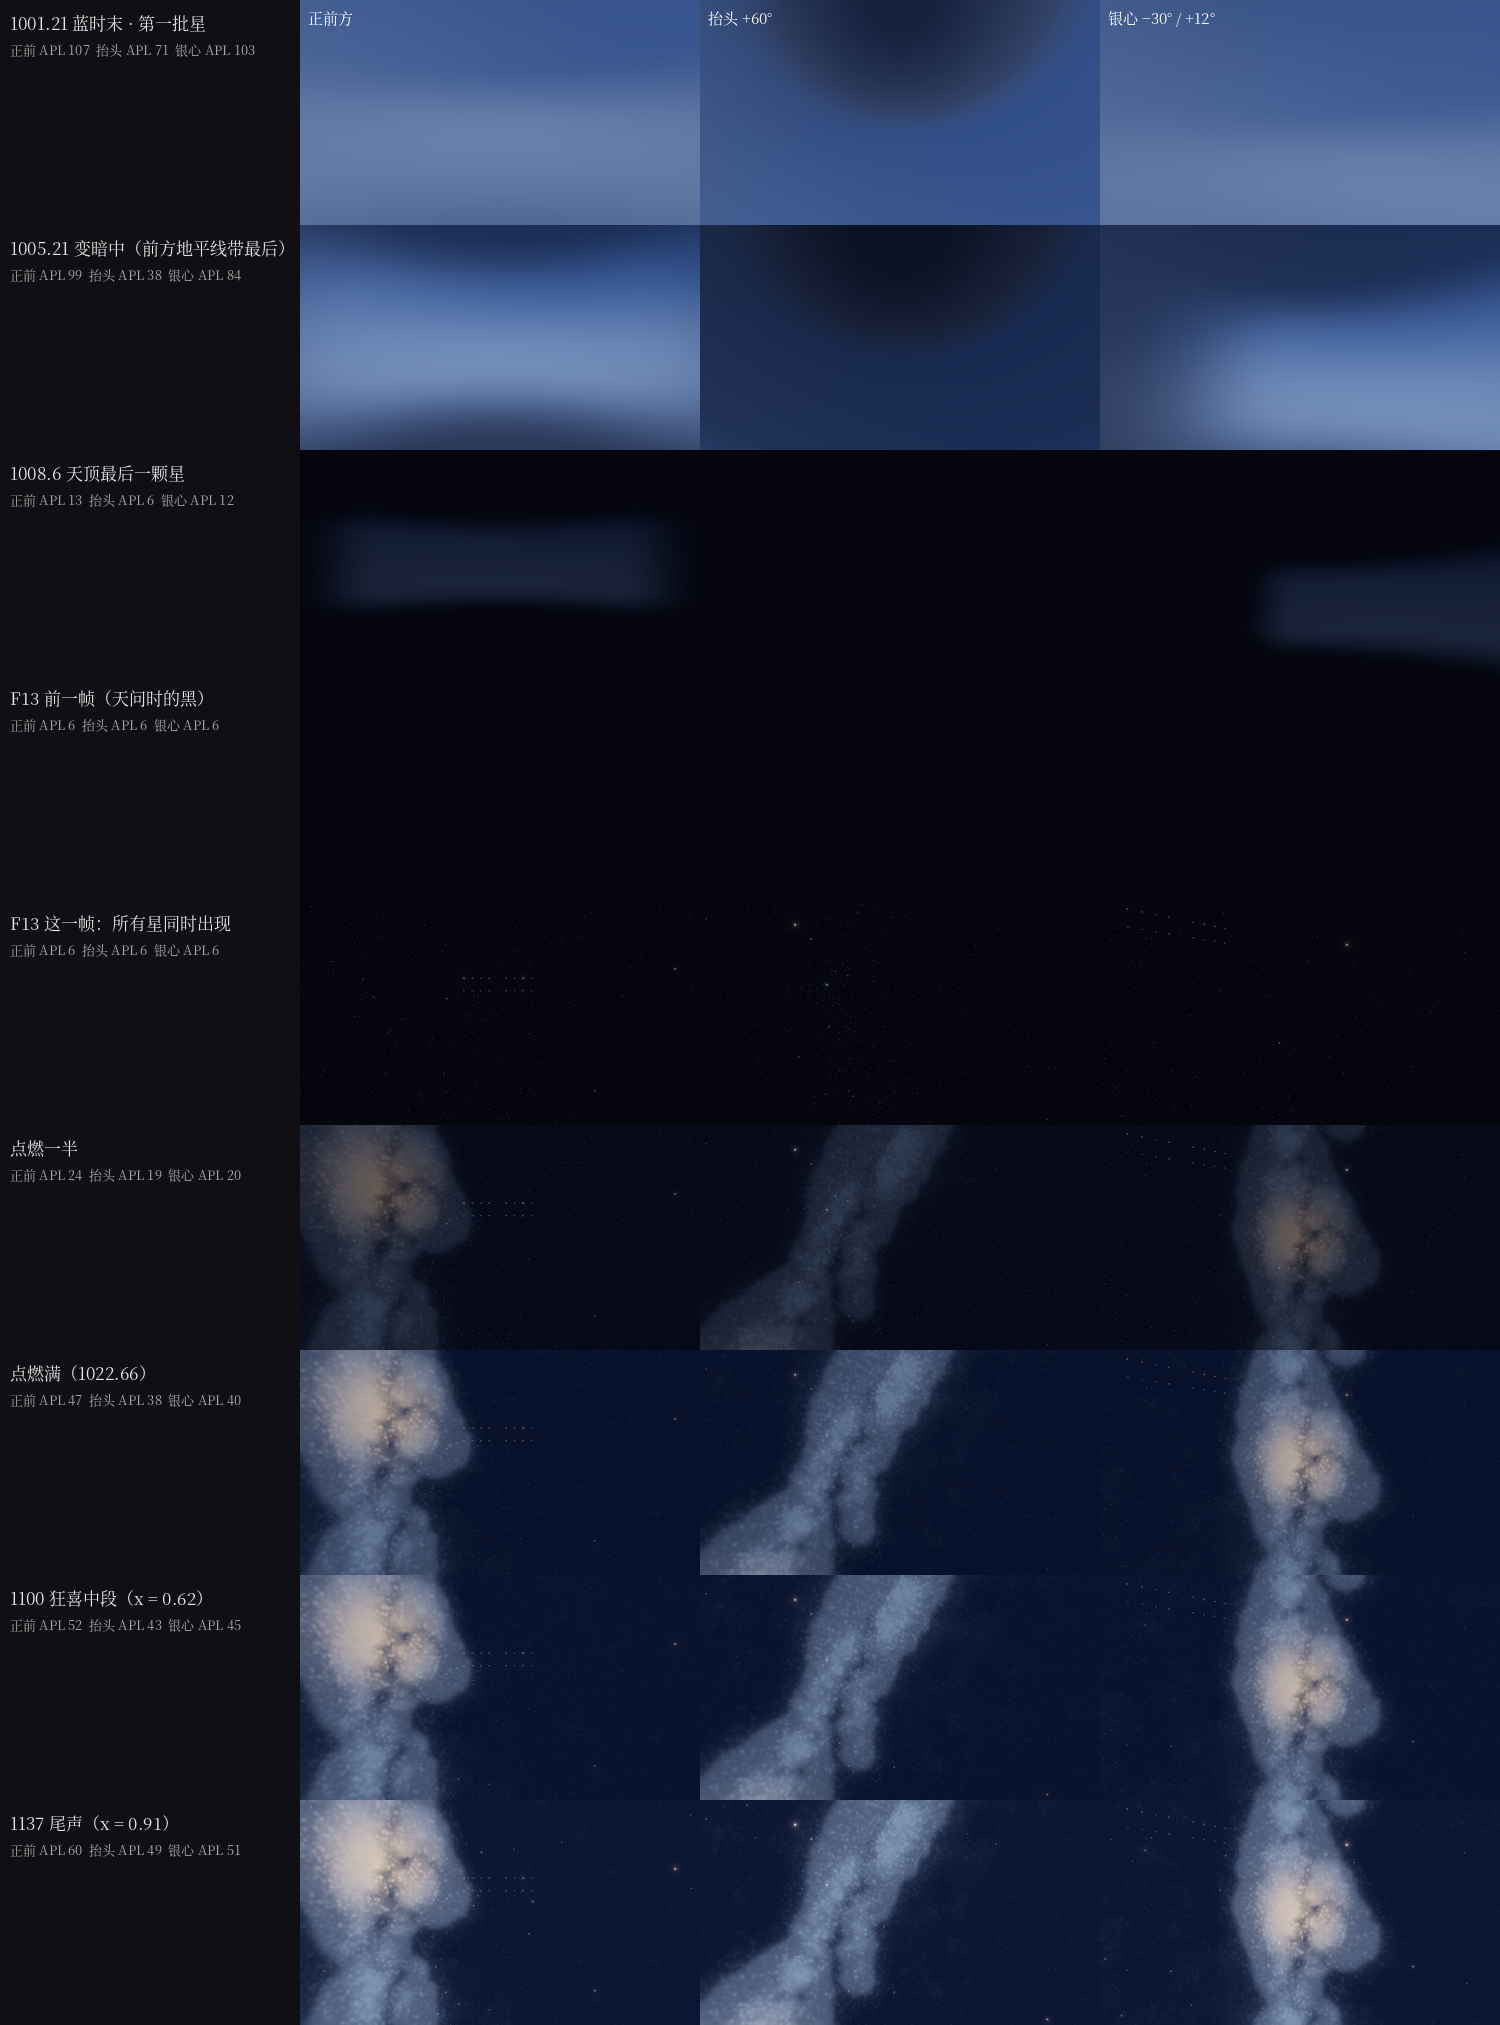
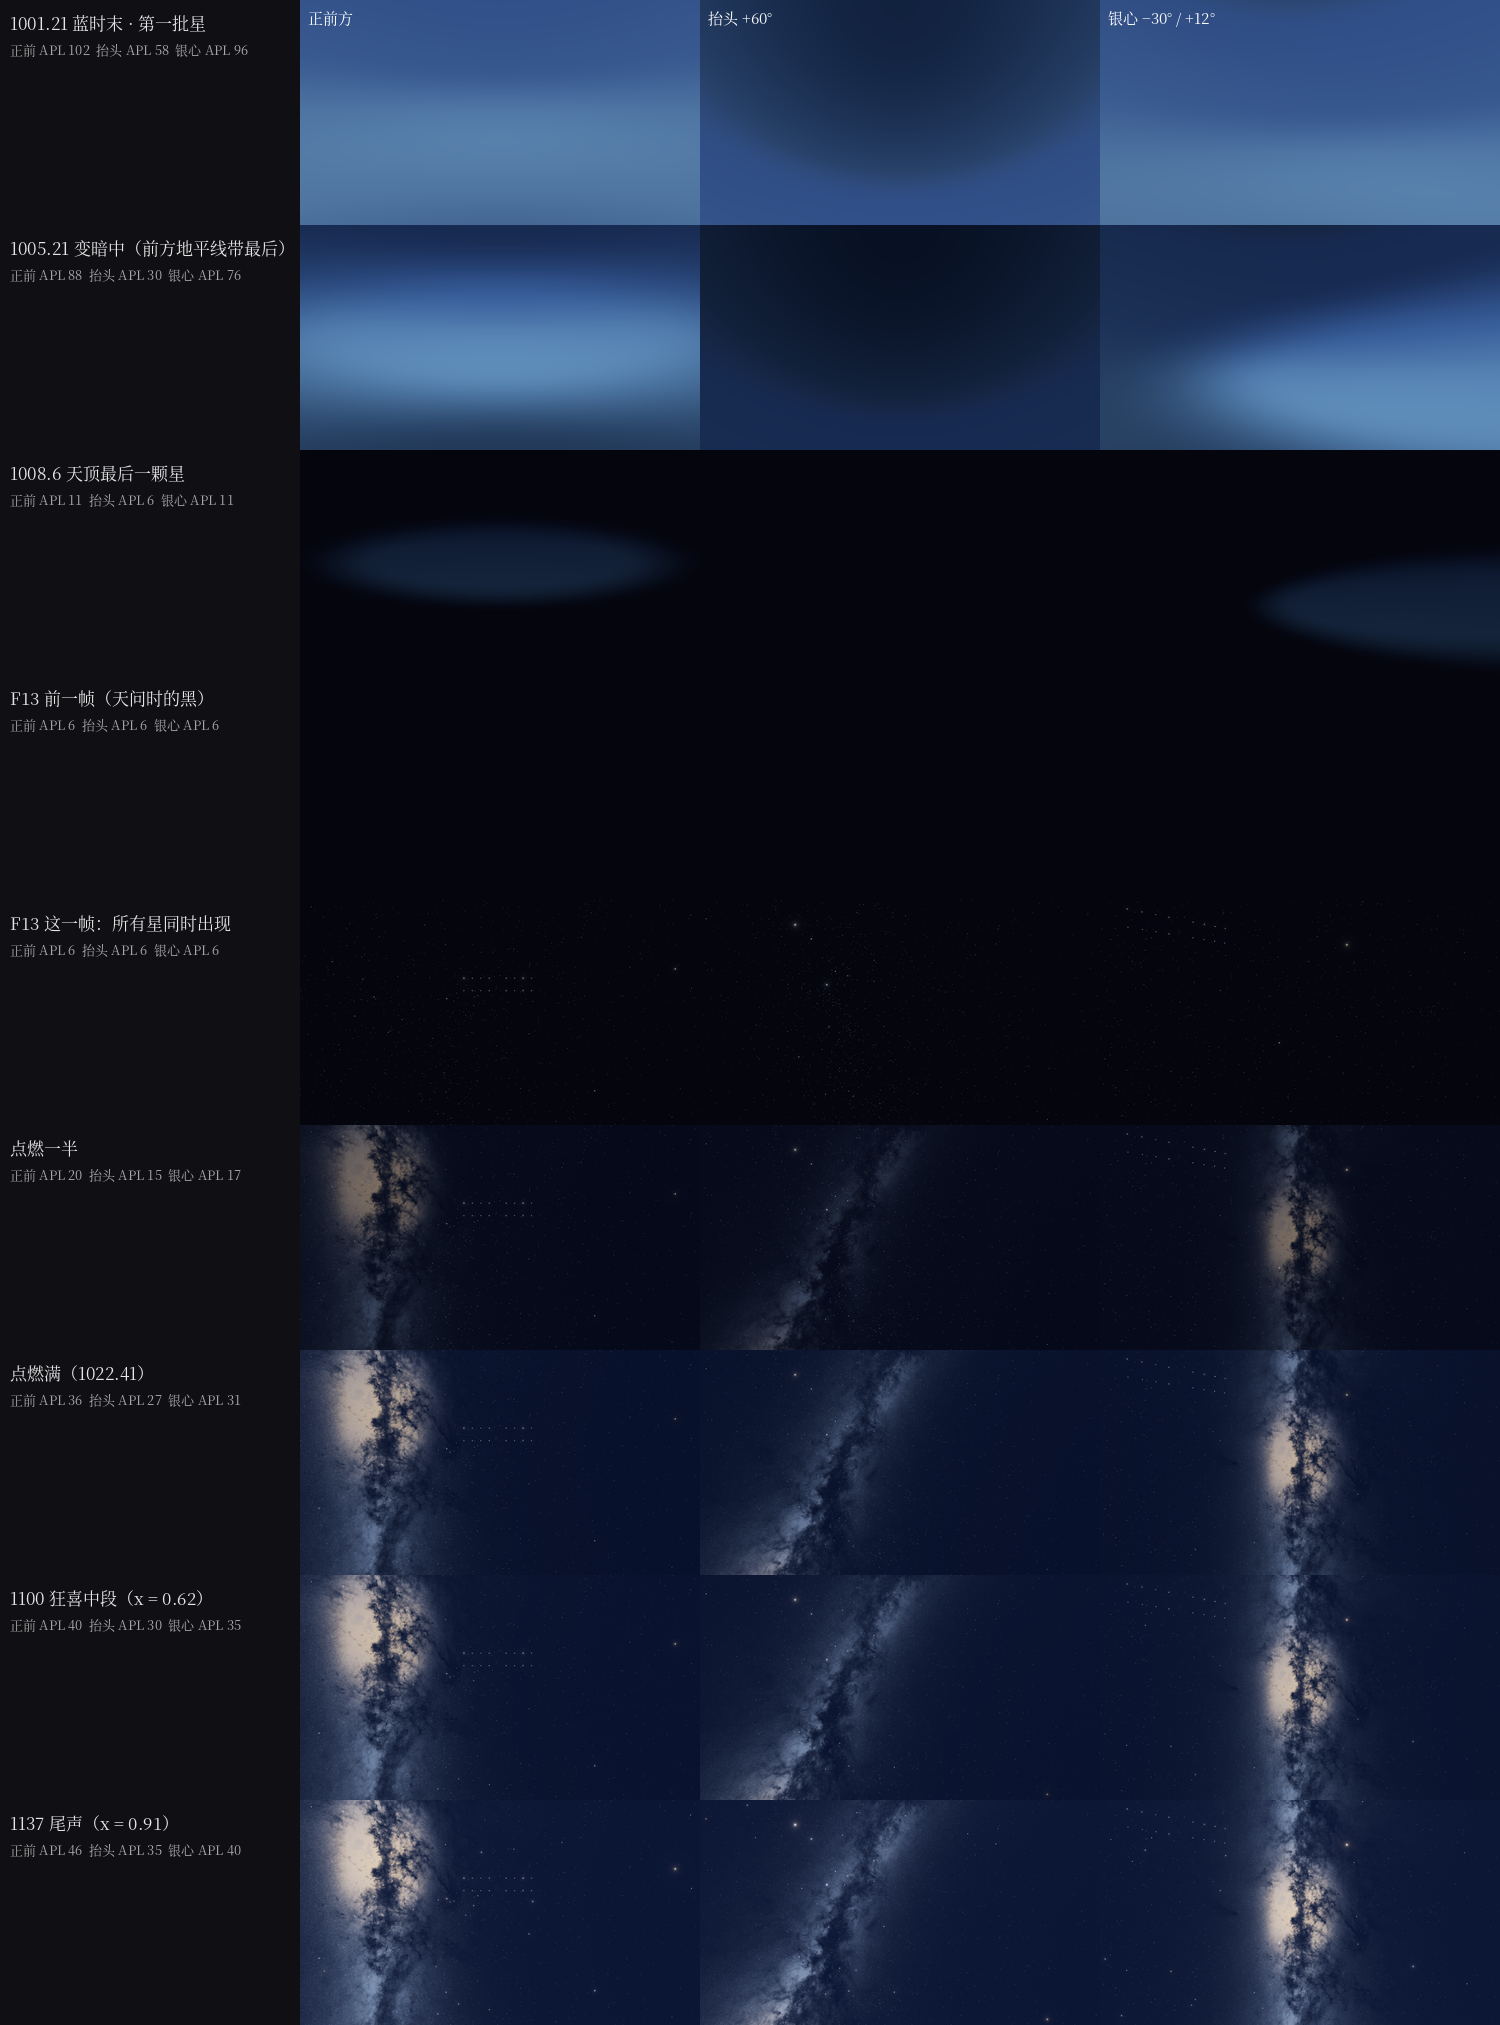
Act 9 v1.1: recalibrated on the Gaia galaxy (ignition 4.2 s + hold 10 s as the bible), reference frames re-rendered, README
Claude-Session: https://claude.ai/code/session_01Nf2iZx1zWD6Xt6BAtCCBfu

diff --git a/Act09_StarSea/README_Act09.md b/Act09_StarSea/README_Act09.md
@@ -1,6 +1,6 @@
-# 蓝白 · 第 9 幕 · 星海（天的部分）v1 —— 遂古之初，谁传道之？上下未形，何由考之？
+# 蓝白 · 第 9 幕 · 星海（天的部分）v1.1 —— 遂古之初，谁传道之？上下未形，何由考之？
 
-写的人：云端子会话「天空」，2026-10-23。**没在 Unity 里编译过**（shader 只用 slang 查过、C# 只用 Roslyn 查过类型）。参考帧是在 CPU 上直接跑 `Lanbai/Sky` 的 shader 代码、按 `Lanbai/StarPoints` 的公式贴星、再按调色套件的引擎（S8b / S9a / S9b + bloom）调色的。
+写的人：云端子会话「天空」，2026-10-23（v1.1：按 Sky v1.2 的 Gaia 银河重标定）。**没在 Unity 里编译过**（shader 只用 slang 查过、C# 只用 Roslyn 查过类型）。参考帧是在 CPU 上直接跑 `Lanbai/Sky` 的 shader 代码、按 `Lanbai/StarPoints` 的公式贴星、再按调色套件的引擎（S8b / S9a / S9b + bloom）调色的。
 **这一版是“天”：** 蓝时的结尾、变暗、天问的黑、F13 一帧满天星、银河点燃线 g(t)、到白之前的积累。**十三面白铜镜**由「镜与白」（`pkg/mirrors`）交套件和时间表，到了以后由本幕的搭建脚本挂进来；**天问的字**由字体套件画（本幕只放字心的 16 颗星）。
 
 ---
@@ -15,7 +15,7 @@
 
 **请推回来的截图**（桌面 1920×1080、水平 90°、主座位眼位，PPv2 开，渲进 ARGBHalf）：
 - 1001.21、1005.21、1008.6：正前方 / 抬头 +60°。
-- **F13（1018.21）那一帧、和 1022.66（点燃满）**：正前方 / 抬头 +60° / 银心方向（−30°, +12°）各一张——**这两张正前方的图用来标定 g(t)**（§3）。
+- **F13（1018.21）那一帧、和 1022.41（点燃满）**：正前方 / 抬头 +60° / 银心方向（−30°, +12°）各一张——**这两张正前方的图用来标定 g(t)**（§3）。
 - 1100、1137：正前方 / 抬头。
 对照 `Docs~/act09_frames.png`。另外 §1.8 的录像窗口 (f)（1016–1030 s）跑 `flashcheck.py`。
 
@@ -44,8 +44,8 @@
 | **1001.21** | 第 9 幕起点 | 本驱动接管 `_Udon_SkyBlend`：夜层权重 0 → 1（8 秒）。**按方向延迟**：背日和天顶 6 秒黑，前方 ±30°（45° 软边）、仰角 6° 以下（22° 软边）的地平线带在 1007.2 仍 ≥ 50%，1009.21 黑。第一批星从 1003.21 起由离天顶最远的一颗开始一颗颗熄灭 |
 | **1009.21** | 变暗结束 | 天 `#04060E`（填 `#050000`）；天顶那颗星在这一刻熄灭，天问开始对焦（字体套件）。`_Udon_ZenithColor` 开始写（星空底） |
 | **1018.21** | **F13** | **这一帧：所有星（8 404 颗）+ 天问的 16 颗星同时满亮度出现**（`_Udon_StarGain.x` 0 → 1）。五个视向的平均亮度都还在爬升律的地板 0.004 以下 = **+0.00 EV** |
-| 1018.21 → **1022.66** | 点燃 | 银河辉光与星空底 `#08112A` 走 **g(t)**（预先算好的表，§3），**4.45 秒**涨满；不用曝光 |
-| 1022.66 → 1032.41 | 保持 | 9.75 秒（第一面镜在 1032.41，「镜与白」的时间表） |
+| 1018.21 → **1022.41** | 点燃 | 银河辉光与星空底 `#08112A` 走 **g(t)**（预先算好的表，§3），**4.2 秒**涨满（= 圣经）；不用曝光 |
+| 1022.41 → 1032.41 | 保持 | 10 秒（= 圣经；第一面镜在 1032.41，「镜与白」的时间表） |
 | 1032.41 → 1149.31 | 十三面镜 | x = (t − F13) / (F16 − F13)：银河辉光增益 g × (1 + 0.8 x^2.5)、亮星加成 4 → 8、亮星个数 50 → 200（同一条 x^2.5，按排名平滑过渡，不会有一颗星突然 ×4） |
 | 1149.31 | F16 | 剪 2（白），交给第 10 幕 |
 
@@ -54,8 +54,8 @@
 ## 3. 银河点燃线 g(t)
 
 - **按光源点燃，不碰曝光**（圣经 E18）：星点在 F13 一帧全部出现（+0.00 EV），亮度的上升全部来自辉光与星空底。
-- **限速不限时长**：在五个视向（正前方、抬头 60°、天顶 85°、银心、向下 60°）上量 L(g)（g = 0..1 共 11 级，真 shader + 贴星 + S9a 调色，显示线性亮度的平均，地板 0.004）。最极端的是**正前方**（银心在左前方的视野里）：L 从 0.0021 涨到 0.055 = 3.77 EV。按 0.85 EV/秒，**T = 4.45 秒**（圣经写 4.2 秒是按带车厢的整帧 3.55 EV 算的；只有天的画面更极端）。g(t) 让正前方的 L 按 EV 线性从 L(F13) 涨到 L(满)，表在 `Act09_StarSea.json` 的 `ignition.g`（每 0.05 秒一个）。
-- 爬升律（同一条曲线，每个视向）：最坏 **0.22 / 0.85 / 1.69 EV**（0.25 s / 1 s / 2 s），全部通过（`Data/ignition.json`）。
+- **限速不限时长**：在五个视向（正前方、抬头 60°、天顶 85°、银心、向下 60°）上量 L(g)（真 shader + 贴星 + S9a 调色，天 2×2 超采样，显示线性亮度的平均，地板 0.004 按调色后的值 0.00184）。最极端的是**正前方**（银心在左前方的视野里）：L 从 0.0021 涨到 0.032 = 3.00 EV。按 0.85 EV/秒是 3.5 秒，**T 取圣经的 4.2 秒**（不比圣经快）。g(t) 让正前方的 L 按 EV 线性从 L(F13) 涨到 L(满)，表在 `Act09_StarSea.json` 的 `ignition.g`（每 0.05 秒一个）。v1 是 4.45 秒：那时的银河是生成的、更亮更软（正前方 3.77 EV）。
+- 爬升律（同一条曲线，每个视向）：最坏 **0.18 / 0.72 / 1.43 EV**（0.25 s / 1 s / 2 s，正前方），全部通过（`Data/ignition.json`）。点燃满时只有天的 APL：正前方 36、抬头 27、银心 31（v1 是 46.7）。
 - **在 Unity 里重新标定**（带车厢）：F13 那一帧的正前方截图平均亮度 C、g = 1 时 G（再加 g = 0.25 / 0.5 / 0.75 三张求 L(g)）；T = max(4.2, log2(G / C) / 0.85)；重算表。带车厢时跨度会小（车厢暗），T 多半回到 4.2 秒附近。
 
 ## 4. 驱动写什么（`LanbaiAct09Driver`）
@@ -80,13 +80,14 @@
 
 ## 6. 和圣经的出入（请总导演看）
 
-1. **点燃 4.45 秒、保持 9.75 秒**（圣经 4.2 + 10）：限速（0.85 EV/s）按只有天的最极端视向推出来的；带车厢的实测多半回到 4.2。第一面镜不动（1032.41）。
-2. **银河辉光不是 NASA 图**（云端连不上 NASA SVS），是 Vieira 银河轮廓 + Hipparcos 暗星生成的；带内外星的密度比 1.67（BSC 到 6.5 等的真数），不是圣经引用的 4.7。本地能下 NASA Deep Star Maps 时换输入重出。
+1. 点燃与保持回到圣经的 **4.2 + 10 秒**（v1 是 4.45 + 9.75）。
+2. **银河辉光是 ESA Gaia EDR3 的照片**（CC BY-SA 3.0 IGO，D-11），不是 NASA 图；星表保持真数，带内外密度比 1.67（D-18）。
 3. 星 8 404 颗（BSC 到 6.5 等），圣经“约 9 000”。
 
 ## 7. 诚实的已知弱点
 
-- 银河还是“生成”的：远看有带、有暖的银心、有暗带，近看结构比照片少，满亮时银心一团偏软。
+- 满亮时正前方左侧的银心（暖尘）是画面里最亮的一块，只有天时正前方 APL 36（圣经 30 是带车厢的整帧）；要压的话在 `Act09_StarSea.json` 里把 g 的上限乘 0.85，等带车厢的截图再定。
+- **1008.6 那一帧，最后的光是一块浮着的椭圆**（夜遮罩是关于地平线对称的，椭圆的下沿在地平线以下）：比 v1 的圆角矩形好，但仍是个形状。改法是让遮罩贴着地平线（地平线以下先黑），在 `Sky/` 的 shader 里，等 Sky 终审意见处理完再改（`Sky/Docs~/review_response_r2.md` 记了）。
 - 星的星等压缩（0.5）和亮度是按“看得见、F13 那一帧仍在地板以下”定的，满天星的密度感要等头显里看。
 - 天问的 16 颗星是规整的两行点阵（就是字的位置）；字暗下去以后读作“一个小小的星座”，是圣经的意思，但在缩略图里像一行虚线。
 - 参考帧没有镜子、没有车厢、没有字；APL 是“只有天”的数，不能直接和圣经 §2.2 的整帧 APL 比。
